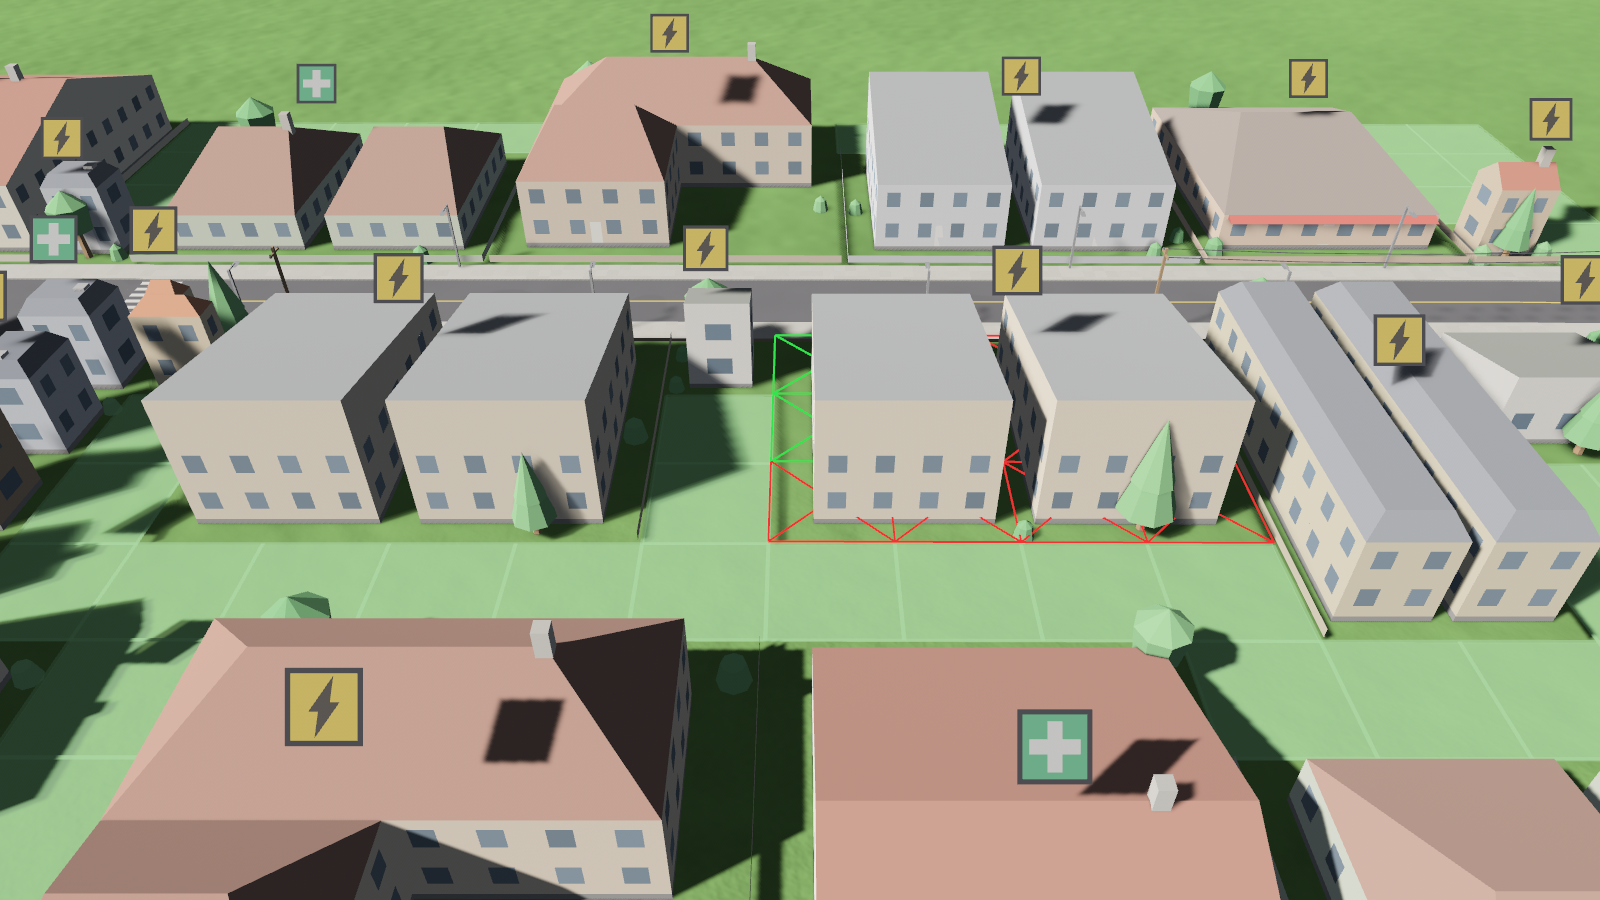
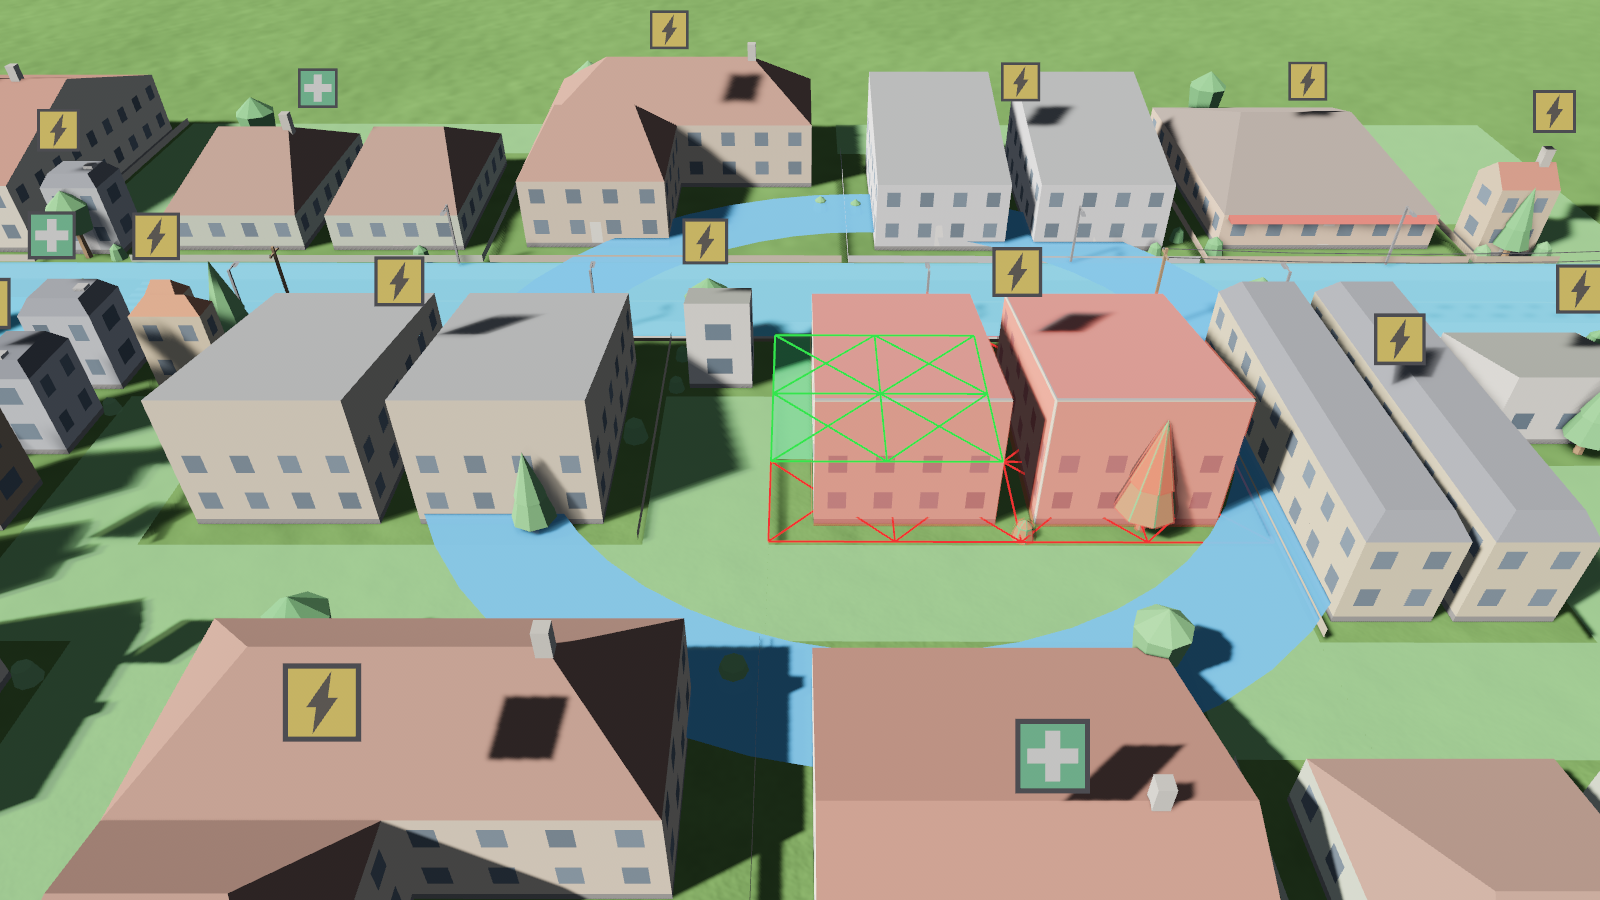
T-252b: the buildings a placement would demolish read clearly — cp_render::DemolishLayer (written by cp_tools from a valid place ghost) draws each one again as a translucent red shell (its own near mesh pushed 0.15 m out along the normals, blended, depth-biased, rebuilt only when the ids or the buil

diff --git a/crates/cp_tools/src/plugin.rs b/crates/cp_tools/src/plugin.rs
@@ -296,6 +296,22 @@ fn ghost_demo(
     state.ghost = compute_ghost_alt(&view, &road_tool, to, false);
 }
 
+/// Gizmos drawn over the scene, never hidden by a building: the placement ghost's lot (T-252b).
+#[derive(Default, Reflect, GizmoConfigGroup)]
+pub struct GhostOnTop;
+
+/// Hands the buildings a valid placement ghost would demolish to the renderer, which tints them
+/// red (T-252b).
+fn sync_demolish_layer(state: Res<ToolState>, mut out: ResMut<cp_render::DemolishLayer>) {
+    let want = match (&state.place_ghost, state.active) {
+        (Some(g), ActiveTool::Place) if g.valid => g.demolish.clone(),
+        _ => Vec::new(),
+    };
+    if out.ids != want {
+        out.ids = want;
+    }
+}
+
 /// Hands the zone strip of the road ghost to the renderer (T-185).
 fn sync_zone_strip(state: Res<ToolState>, mut out: ResMut<cp_render::ZoneStripLayer>) {
     let want: Vec<[Vec2; 4]> = match (&state.ghost, state.active) {
@@ -543,6 +559,18 @@ impl Plugin for ToolsPlugin {
                 (place_demo, sync_coverage_ghost).chain().after(tool_hover),
             )
             .add_systems(Update, sync_coverage_count.after(sync_coverage_ghost))
+            .init_resource::<cp_render::DemolishLayer>()
+            .add_systems(
+                Update,
+                sync_demolish_layer.after(tool_hover).after(place_demo),
+            )
+            .insert_gizmo_config(
+                GhostOnTop,
+                GizmoConfig {
+                    depth_bias: -1.0,
+                    ..default()
+                },
+            )
             .add_systems(
                 Update,
                 (ghost_demo, sync_zone_strip)
@@ -1202,7 +1230,12 @@ pub fn tool_click(
     }
 }
 
-fn draw_ghost(state: Res<ToolState>, view: Option<Res<SimView>>, mut gizmos: Gizmos) {
+fn draw_ghost(
+    state: Res<ToolState>,
+    view: Option<Res<SimView>>,
+    mut gizmos: Gizmos,
+    mut on_top: Gizmos<GhostOnTop>,
+) {
     if let (Some(view), Some(stop)) = (view.as_deref(), state.stop_highlight)
         && let Some(st) = view.transit.net.stops.get(stop)
     {
@@ -1396,11 +1429,12 @@ fn draw_ghost(state: Res<ToolState>, view: Option<Res<SimView>>, mut gizmos: Giz
         } else {
             Color::srgb(0.95, 0.2, 0.2)
         };
-        draw_cells(view, &g.cells, color, &mut gizmos);
+        // On top of everything (T-252b): the lot stays readable over the roofs it would replace.
+        draw_cells(view, &g.cells, color, &mut on_top);
         if let Some(f) = &g.free {
-            draw_free(view, f, color, &mut gizmos);
+            draw_free(view, f, color, &mut on_top);
         }
-        // The zoned buildings it would demolish (T-252).
+        // The zoned buildings it would demolish (T-252); cp_render tints them whole.
         for b in g.demolish.iter().filter_map(|id| view.buildings.get(*id)) {
             let cells = cp_building::held_cells(&view.zones, b);
             draw_cells(view, &cells, Color::srgb(0.95, 0.2, 0.2), &mut gizmos);
@@ -1416,7 +1450,12 @@ fn draw_ghost(state: Res<ToolState>, view: Option<Res<SimView>>, mut gizmos: Giz
 
 /// The rectangle of a free-standing ghost, the connection circle (the network's reach) around it and a line
 /// to the network it would connect to.
-fn draw_free(view: &SimView, f: &crate::FreeGhost, color: Color, gizmos: &mut Gizmos) {
+fn draw_free<G: GizmoConfigGroup>(
+    view: &SimView,
+    f: &crate::FreeGhost,
+    color: Color,
+    gizmos: &mut Gizmos<G>,
+) {
     let height = |p: Vec2| view.terrain.as_deref().map_or(0.0, |t| t.height(p)) + 0.6;
     let k = f.polygon.map(|q| Vec3::new(q.x, height(q), q.y));
     gizmos.linestrip([k[0], k[1], k[2], k[3], k[0]], color);
@@ -1457,7 +1496,12 @@ fn draw_free(view: &SimView, f: &crate::FreeGhost, color: Color, gizmos: &mut Gi
 }
 
 /// Outlines (crossed) the footprints of `cells`.
-fn draw_cells(view: &SimView, cells: &[ZoneCellRef], color: Color, gizmos: &mut Gizmos) {
+fn draw_cells<G: GizmoConfigGroup>(
+    view: &SimView,
+    cells: &[ZoneCellRef],
+    color: Color,
+    gizmos: &mut Gizmos<G>,
+) {
     let height = |p: Vec2| view.terrain.as_deref().map_or(0.0, |t| t.height(p)) + 0.6;
     for c in cells {
         let Some(o) = view.zones.cell_footprint(*c) else {

diff --git a/crates/cp_render/src/demolish_ghost.rs b/crates/cp_render/src/demolish_ghost.rs
@@ -1,0 +1,114 @@
+//! The buildings a placement would demolish (T-252b): each drawn again as a translucent red
+//! shell just outside its own walls and roof, so the whole building reads red, not only a
+//! ground outline. `cp_tools` writes [`DemolishLayer`] every frame; the mesh is rebuilt when the
+//! ids or the buildings change.
+
+use std::sync::Arc;
+
+use bevy::prelude::*;
+use cp_building::{BuildingGrid, BuildingId};
+use cp_core::Tick;
+use cp_sim::SimView;
+
+use crate::building::build_building;
+use crate::chunk::MeshData;
+use crate::material::VertexColorMaterial;
+use crate::utility_render::spawn_mesh;
+
+/// Tint of a building that would be demolished.
+pub const DEMOLISH_TINT: [f32; 4] = [0.95, 0.12, 0.08, 0.55];
+
+/// How far the shell stands off the building's surfaces, metres.
+const SHELL_OFFSET: f32 = 0.15;
+
+/// The buildings to tint, in id order.
+#[derive(Resource, Default, Clone, Debug, PartialEq)]
+pub struct DemolishLayer {
+    pub ids: Vec<BuildingId>,
+}
+
+#[derive(Resource, Default)]
+struct DemolishRender {
+    shown: Vec<BuildingId>,
+    buildings: Option<Arc<BuildingGrid>>,
+    entity: Option<Entity>,
+    material: Option<Handle<VertexColorMaterial>>,
+}
+
+/// The red shells of `ids`: each building's near mesh, pushed out along its normals and tinted.
+pub fn demolish_mesh(view: &SimView, ids: &[BuildingId]) -> MeshData {
+    let mut m = MeshData::default();
+    let (Some(terrain), Some(db)) = (view.terrain.as_deref(), view.content.as_deref()) else {
+        return m;
+    };
+    for id in ids {
+        let Some(b) = view.buildings.get(*id) else {
+            continue;
+        };
+        let piece = build_building(
+            *id,
+            b,
+            db.building(b.def),
+            &view.net,
+            terrain,
+            db,
+            Tick(view.tick.0),
+        );
+        let near = piece.near;
+        let base = m.positions.len() as u32;
+        for (p, n) in near.positions.iter().zip(&near.normals) {
+            let (p, n) = (Vec3::from(*p), Vec3::from(*n));
+            m.positions.push((p + n * SHELL_OFFSET).to_array());
+            m.normals.push(n.to_array());
+            m.colors.push(DEMOLISH_TINT);
+        }
+        m.indices.extend(near.indices.iter().map(|i| base + i));
+    }
+    m
+}
+
+fn sync_demolish(
+    view: Option<Res<SimView>>,
+    layer: Res<DemolishLayer>,
+    mut state: ResMut<DemolishRender>,
+    mut commands: Commands,
+    mut meshes: ResMut<Assets<Mesh>>,
+    mut materials: ResMut<Assets<VertexColorMaterial>>,
+) {
+    let Some(view) = view else { return };
+    let same_grid = state
+        .buildings
+        .as_ref()
+        .is_some_and(|g| Arc::ptr_eq(g, &view.buildings));
+    if state.shown == layer.ids && (same_grid || layer.ids.is_empty()) {
+        return;
+    }
+    if let Some(e) = state.entity.take() {
+        commands.entity(e).despawn();
+    }
+    let material = state
+        .material
+        .get_or_insert_with(|| {
+            materials.add(VertexColorMaterial::blended(0.9, 0.02).with_depth_bias(true))
+        })
+        .clone();
+    state.entity = spawn_mesh(
+        &mut commands,
+        &mut meshes,
+        material,
+        demolish_mesh(&view, &layer.ids),
+        "demolish ghost",
+    );
+    state.shown = layer.ids.clone();
+    state.buildings = Some(Arc::clone(&view.buildings));
+}
+
+pub struct DemolishGhostPlugin;
+
+impl Plugin for DemolishGhostPlugin {
+    fn build(&self, app: &mut App) {
+        app.init_resource::<DemolishLayer>()
+            .init_resource::<DemolishRender>()
+            .add_systems(Update, sync_demolish);
+    }
+}

diff --git a/crates/cp_tools/tests/place_over_ghost.rs b/crates/cp_tools/tests/place_over_ghost.rs
@@ -1,6 +1,6 @@
 //! T-252: the placement ghost of a service over zoned buildings is valid (green) and names the
 //! buildings it would demolish; the app counts the residents and jobs in them from the sim. Over
-//! another service building it stays red.
+//! another service building it stays red. The renderer's red shell covers the whole building.
 
 use std::path::Path;
 use std::sync::Arc;
@@ -61,6 +61,47 @@ fn the_ghost_over_a_house_is_green_and_names_what_it_demolishes() {
         text.starts_with(&format!("Demolishes {} building", g.demolish.len()))
             && text.contains(&format!("{residents} residents evicted")),
         "{text}"
+    );
+
+    // The renderer tints each doomed building whole (T-252b): its own near mesh, pushed just
+    // outside its surfaces, all in the demolish tint.
+    let shell = cp_render::demolish_ghost::demolish_mesh(&view, &g.demolish);
+    let own: usize = g
+        .demolish
+        .iter()
+        .map(|id| {
+            let b = buildings.get(*id).unwrap();
+            let terrain = view.terrain.as_deref().unwrap();
+            cp_render::building::build_building(
+                *id,
+                b,
+                db.building(b.def),
+                &view.net,
+                terrain,
+                &db,
+                cp_core::Tick(view.tick.0),
+            )
+            .near
+            .positions
+            .len()
+        })
+        .sum();
+    assert!(own > 0 && shell.positions.len() == own);
+    assert!(
+        shell
+            .colors
+            .iter()
+            .all(|c| *c == cp_render::demolish_ghost::DEMOLISH_TINT)
+    );
+    let roof = shell
+        .positions
+        .iter()
+        .map(|p| p[1])
+        .fold(f32::MIN, f32::max);
+    let ground = view.terrain.as_deref().unwrap().height(b.pos);
+    assert!(
+        roof > ground + 3.0,
+        "the shell reaches the roof: {roof} vs {ground}"
     );
 
     // Over a service building: red, nothing to demolish.

diff --git a/crates/cp_render/src/utility_render.rs b/crates/cp_render/src/utility_render.rs
@@ -608,11 +608,14 @@ pub struct UtilityRenderPlugin;
 
 impl Plugin for UtilityRenderPlugin {
     fn build(&self, app: &mut App) {
-        app.add_plugins(crate::zone_ghost::ZoneGhostPlugin)
-            .init_resource::<PowerRender>()
-            .init_resource::<PipeLayers>()
-            .init_resource::<PipeRender>()
-            .add_systems(Update, (sync_power, sync_pipes));
+        app.add_plugins((
+            crate::zone_ghost::ZoneGhostPlugin,
+            crate::demolish_ghost::DemolishGhostPlugin,
+        ))
+        .init_resource::<PowerRender>()
+        .init_resource::<PipeLayers>()
+        .init_resource::<PipeRender>()
+        .add_systems(Update, (sync_power, sync_pipes));
     }
 }
 

diff --git a/crates/cp_render/src/lib.rs b/crates/cp_render/src/lib.rs
@@ -9,6 +9,7 @@ pub mod building_render;
 pub mod camera;
 pub mod cargo_render;
 pub mod chunk;
+pub mod demolish_ghost;
 pub mod fire_fx;
 pub mod fire_render;
 pub mod furniture_render;
@@ -32,6 +33,7 @@ pub use building_render::{BuildingRenderPlugin, BuildingStats};
 pub use camera::{CameraSettings, RtsCamera, RtsCameraPlugin};
 pub use cargo_render::CargoRenderPlugin;
 pub use chunk::terrain_mesh_height;
+pub use demolish_ghost::{DemolishGhostPlugin, DemolishLayer};
 pub use fire_render::{FireFxPlugin, FireFxStats};
 pub use furniture_render::{FurnitureRenderPlugin, FurnitureStats};
 pub use material::{VertexColorMaterial, VertexColorMaterialPlugin};

diff --git a/apps/desktop/README.md b/apps/desktop/README.md
@@ -41,8 +41,8 @@ perl -e 'alarm 120; exec @ARGV' -- target/release/cp_desktop --hidden --map flat
 * `--scene services-paused --cam services --overlay police` (T-254 step 2): the same grid with a
   third police station placed after the pause; the overlay shows its coverage at once (live).
 * `--scene grown --cam place-over --place-demo clinic,5140,5078` (T-252): the placement ghost of a
-  clinic held over grown houses: the lot in green, the zoned buildings it would demolish outlined
-  in red (`--place-demo def,x,z` works with any scene).
+  clinic held over grown houses: the lot in green drawn over the roofs, the zoned buildings it would
+  demolish tinted red whole (T-252b) (`--place-demo def,x,z` works with any scene).
 * `--screenshot` never saves a blank frame (BUG-012): blank captures are discarded and
   retried; if no real frame arrives within 20 s it exits with code **3**; a write error exits
   **4**.
